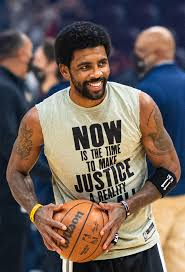
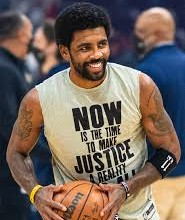
Version 3 - Changed some styles

diff --git a/src/app/pages/home/home.component.html b/src/app/pages/home/home.component.html
@@ -14,19 +14,24 @@
           @for (player of players; let i = $index; track i) {
             <div class="w-20 h-20 sm:w-28 sm:h-28 flex items-center justify-center text-4xl font-bold bg-orange-200 border-4 border-orange-700 hover:bg-orange-300 transition"
                  (click)="selectPlayer(player, 'player1')">
-              <div class="tooltip">
-                <img [src]="player.src" [alt]="player.name" class="w-14 h-14 sm:w-20 sm:h-20"/>
+
+              <div class="tooltip flex items-center justify-center w-14 h-14 sm:w-20 sm:h-20">
+                <img [src]="player.src" [alt]="player.name" class="w-full h-full object-cover"/>
                 <span class="tooltiptext">{{ player.name }}</span>
               </div>
+
             </div>
           }
         </div>
       </div>
 
-      <div class="flex flex-col items-center justify-center gap-y-2 p-2 w-32 h-44 sm:w-44 sm:h-52 bg-white/85 rounded-lg"
+      <div class="flex flex-col items-center justify-center gap-y-4 sm:gap-y-2 p-2 w-32 h-44 sm:w-44 sm:h-52 bg-white/85 rounded-lg"
            [ngClass]="{'invisible': !player1}">
         <h2 class="font-bold text-orange-600 text-center">{{ player1?.name }}</h2>
-        <img [src]="player1?.src" [alt]="player1?.name" class="w-24 h-24 sm:w-36 sm:h-36">
+
+        <div class="w-24 h-24 sm:w-36 sm:h-36">
+          <img [src]="player1?.src" [alt]="player1?.name" class="w-full h-full object-cover">
+        </div>
       </div>
 
       <div class="flex flex-col items-center justify-center gap-y-2 p-2 w-14 h-14 bg-white/85 rounded-lg"
@@ -34,10 +39,13 @@
         <h2 class="text-5xl font-bold text-orange-600 text-center">X</h2>
       </div>
 
-      <div class="flex flex-col items-center justify-center gap-y-2 p-4 w-32 h-44 sm:w-44 sm:h-52 bg-white/85 rounded-lg"
+      <div class="flex flex-col items-center justify-center gap-y-4 sm:gap-y-2 p-2 w-32 h-44 sm:w-44 sm:h-52 bg-white/85 rounded-lg"
            [ngClass]="{'invisible': !player2}">
         <h2 class="font-bold text-orange-600 text-center">{{ player2?.name }}</h2>
-        <img [src]="player2?.src" [alt]="player2?.name" class="w-24 h-24 sm:w-36 sm:h-36">
+
+        <div class="w-24 h-24 sm:w-36 sm:h-36">
+          <img [src]="player2?.src" [alt]="player2?.name" class="w-full h-full object-cover">
+        </div>
       </div>
 
       <div class="flex flex-col gap-y-2 p-6 bg-white/85 rounded-lg mb-8 xl:mb-0">
@@ -48,10 +56,12 @@
           @for (player of players; let i = $index; track i) {
             <div class="w-20 h-20 sm:w-28 sm:h-28 flex items-center justify-center text-4xl font-bold bg-orange-200 border-4 border-orange-700 hover:bg-orange-300 transition"
                  (click)="selectPlayer(player, 'player2')">
-              <div class="tooltip">
-                <img [src]="player.src" [alt]="player.name" class="w-14 h-14 sm:w-20 sm:h-20"/>
+
+              <div class="tooltip flex items-center justify-center w-14 h-14 sm:w-20 sm:h-20">
+                <img [src]="player.src" [alt]="player.name" class="w-full h-full object-cover"/>
                 <span class="tooltiptext">{{ player.name }}</span>
               </div>
+
             </div>
           }
         </div>

diff --git a/src/app/shared/components/tic-tac-toe/tic-tac-toe.component.html b/src/app/shared/components/tic-tac-toe/tic-tac-toe.component.html
@@ -1,8 +1,13 @@
 <div class="flex flex-col md:flex-row items-center justify-between gap-x-16 lg:gap-x-52 gap-y-16 mt-8 mb-8 xl:mt-0 xl:mb-0">
 
-  <div class="flex flex-col items-center justify-center gap-y-2 p-2 w-40 h-48 xl:w-44 xl:h-52 bg-white/85 rounded-lg">
+  <div class="flex flex-col items-center justify-center gap-y-2 p-2 w-40 h-52 xl:w-44 xl:h-56 bg-white/85 rounded-lg">
     <h2 class="font-bold text-orange-600 text-center">{{ player1()?.name }}</h2>
-    <img [src]="player1()?.src" [alt]="player1()?.name" class="w-32 h-32 xl:w-36 xl:h-36">
+
+    <div class="flex items-center justify-center w-32 h-32 xl:w-36 xl:h-36">
+      <img [src]="player1()?.src" [alt]="player1()?.name"
+           class="w-full h-full object-covers"/>
+    </div>
+
     <span class="font-bold text-orange-600 text-center">Vitórias: {{ player1Points }}</span>
   </div>
 
@@ -12,7 +17,9 @@
         <div class="w-20 h-20 xl:w-28 xl:h-28 flex items-center justify-center text-4xl font-bold bg-orange-200 border-4 border-orange-700 hover:bg-orange-300 transition"
              (click)="playMove(i)">
           @if (cell) {
-            <img [src]="cell" alt="jogador" class="w-14 h-14 xl:w-20 xl:h-20" />
+            <div class="flex items-center justify-center w-14 h-14 sm:w-20 sm:h-20">
+              <img [src]="cell" alt="jogador" class="w-full h-full object-cover"/>
+            </div>
           }
         </div>
       }
@@ -34,9 +41,14 @@
     </button>
   </div>
 
-  <div class="flex flex-col items-center justify-center gap-y-2 p-2 w-40 h-48 xl:w-44 xl:h-52 bg-white/85 rounded-lg">
+  <div class="flex flex-col items-center justify-center gap-y-2 p-2 w-40 h-52 xl:w-44 xl:h-56 bg-white/85 rounded-lg">
     <h2 class="font-bold text-orange-600 text-center">{{ player2()?.name }}</h2>
-    <img [src]="player2()?.src" [alt]="player2()?.name" class="w-32 h-32 xl:w-36 xl:h-36">
+
+    <div class="flex items-center justify-center w-32 h-32 xl:w-36 xl:h-36">
+      <img [src]="player2()?.src" [alt]="player2()?.name"
+           class="w-full h-full object-cover"/>
+    </div>
+
     <span class="font-bold text-orange-600 text-center">Vitórias: {{ player2Points }}</span>
   </div>
 

diff --git a/src/styles.css b/src/styles.css
@@ -7,7 +7,7 @@ html, body {
 body {
   margin: 0;
   font-family: "Helvetica Neue", sans-serif;
-  background-image: url('../public/background/quadra-de-basquete-de-cima.jpg');
+  background-image: linear-gradient(rgba(0, 0, 0, 0.3), rgba(0, 0, 0, 0.3)), url('../public/background/wallpaper.jpg');
   background-size: cover;
   background-position: center;
   min-height: 100vh;
